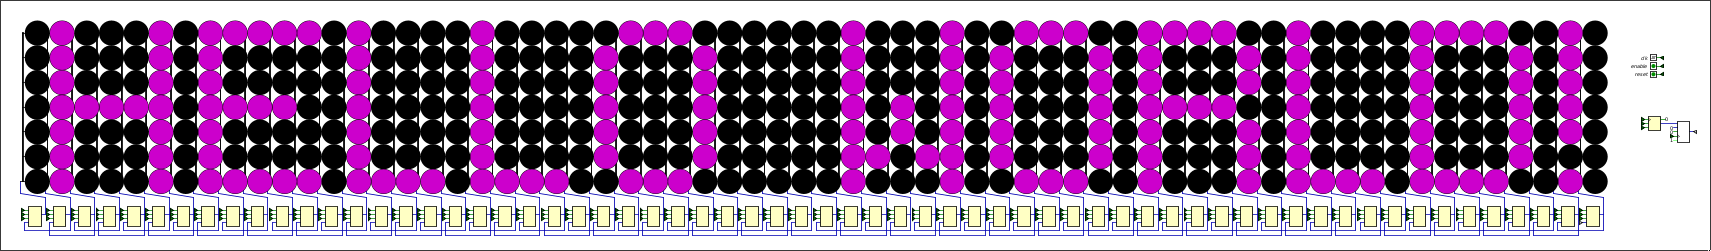
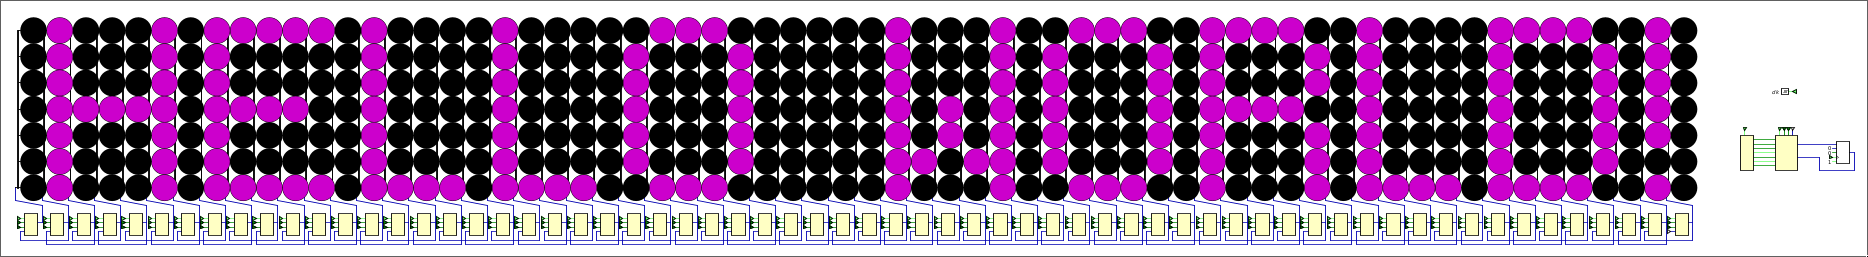
feat: with a von Neumann machine !

diff --git a/main.py b/main.py
@@ -73,22 +73,78 @@ symbols = {
     "%":["73", "54", "6B", "15", "67"]
 }
 
-message = input("Enter your text :\n> ")
+NB_BITS = 8
+MEMORY_SIZE = 2**NB_BITS
+MAX_JUMP_SIZE = 2**(NB_BITS - 3)
+NB_NOPS = 2
+
+message = input("Enter your text:\n> ")
+modes = ["once", "cycle", "repeat"]
+mode = ""
+while mode not in modes:
+    mode = input(f"Choose your mode ({', '.join(modes)}):\n> ")
+
 filepath = "memory.hex"
 
 message = message.upper()
 
-string = "v2.0 raw\n"
+cells = ["0x00" for _ in range(MEMORY_SIZE)]
+i_actual_cell = 0
+too_big = False
 for letter in message:
     if letter not in symbols:
         letter = "#"
+
+    if i_actual_cell + len(symbols[letter]) * (NB_NOPS + 1) + NB_NOPS + 2 >= MEMORY_SIZE:
+        too_big = True
+        break
     
     for code in symbols[letter]:
-        string += "0x" + code + "\n"
+        cells[i_actual_cell] = "0x" + code
+        i_actual_cell += 1
+    
+        for _ in range(NB_NOPS):
+            cells[i_actual_cell] = hex(2**(NB_BITS-1) + 1)  # Nop (Jump +1)
+            i_actual_cell += 1
 
     # Small space between caracters
-    string += "0x00" + "\n"
+    # cells[i_actual_cell] = "0x00"
+    i_actual_cell += 1
+    
+    for _ in range(NB_NOPS):
+        cells[i_actual_cell] = hex(2**(NB_BITS-1) + 1)  # Nop (Jump +1)
+        i_actual_cell += 1
 
-with open(filepath, "w") as file:
-    file.write(string)
-    print(f"File created/modified ({filepath})")
+if mode == "once" and not too_big:
+    if i_actual_cell + 1 < MEMORY_SIZE:
+        cells[i_actual_cell] = hex(2**(NB_BITS-1))  # Jump 0
+        i_actual_cell += 1
+    else:
+        too_big = True
+
+if mode == "repeat" and not too_big:
+    if i_actual_cell + 1 < MEMORY_SIZE:
+        cells[i_actual_cell] = hex(2**(NB_BITS) - 1)  # Clear
+        i_actual_cell += 1
+    else:
+        too_big = True
+
+if mode == "cycle" or mode == "repeat" and not too_big:
+    while i_actual_cell != MEMORY_SIZE:
+        if i_actual_cell + MAX_JUMP_SIZE - 1 < MEMORY_SIZE:
+            cells[i_actual_cell] = hex(2**(NB_BITS-1) + MAX_JUMP_SIZE - 1)  # Jump +(MAX_JUMP_SIZE - 1)
+            i_actual_cell += MAX_JUMP_SIZE - 1
+        else:
+            jump_size = MEMORY_SIZE - i_actual_cell
+            cells[i_actual_cell] = hex(2**(NB_BITS-1) + jump_size)  # Jump +jump_size
+            i_actual_cell += jump_size
+
+if not too_big:
+    string = "v2.0 raw\n" + "\n".join(cells)
+
+    with open(filepath, "w") as file:
+        file.write(string)
+        print(f"File created/modified ({filepath})")
+
+else:
+    print("⚠ Text too big for the memory size")

diff --git a/README.md b/README.md
@@ -1,18 +1,27 @@
 # generate-EEPROM-memory
 
-We have a [Digital](https://github.com/hneemann/Digital) project reading in an EEPROM memory, displaying its content on a 7px tall LED display and making it scroll.
+We have a [Digital](https://github.com/hneemann/Digital) project implementing a simple von Neumann machine.
+
+It has a scrolling 7px tall LED display and reads instructions in an EEPROM memory.
+
+The 3 instructions are :
+- Show : Scroll the display one step to the left and display the informations on the right most column
+- Clear : Clears the display
+- Jump : Make a jump in the memory (where to read instructions next)
+
+&nbsp;
 
 ![Hello World!](imgs/HelloWorld!.png)
 
-This python script converts user-input text into a hexadecimal representation to store in the EEPROM.
+This python script converts user-input text into instructions to store in the EEPROM.
 
-You can try it directly on this URL : https://eeprom-generator.static.domains/
+<!-- You can try it directly on this URL : https://eeprom-generator.static.domains/ -->
 
 ## Usage
 
 1. Run the script.
-2. Enter the desired text.
-3. The script will convert the text into hexadecimal values based on the provided symbol set.
+2. Enter the desired text and mode.
+3. The script will convert the text into instructions for the von Neumann machine.
 4. The output will be saved to a file named "memory.hex" in the working directory.
 
 ## Symbol Set
@@ -27,5 +36,8 @@ python main.py
 ```
 Enter your text:
 > Hello World!
+Choose your mode (once, cycle, repeat):
+> cycle
+File created/modified (memory.hex)
 ```
-The script will generate the corresponding hexadecimal values for each character and save them to "memory.hex".
+The script will generate the corresponding instructions and save them to "memory.hex".
